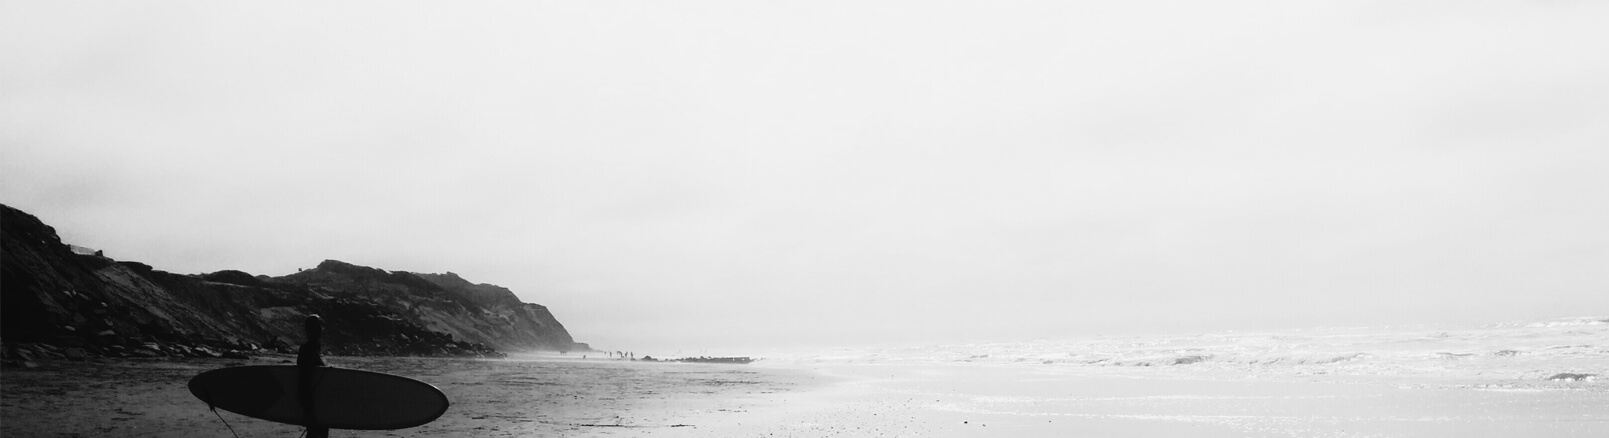
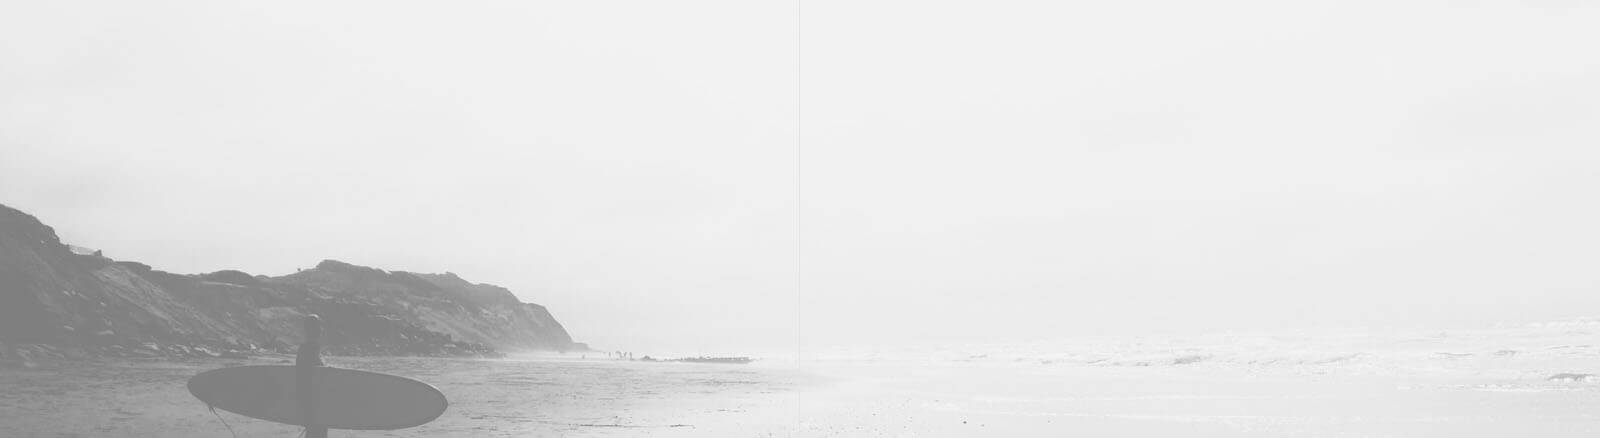
subscribe

Changed region(s): [[0.0, 0.4155, 0.5, 1.0], [0.9375, 0.8311, 1.0, 0.8904], [0.7188, 0.8014, 0.75, 0.8311]]

diff --git a/style.less b/style.less
@@ -449,7 +449,7 @@ body {
     position: relative;
 
     img {
-        height: 100%;
+        //        height: 100%;
     }
 
     &__text {
@@ -481,10 +481,6 @@ body {
 .offerDescription {
     width: 100%;
     background-color: #222224;
-    display: -webkit-flex;
-    display: -moz-flex;
-    display: -ms-flex;
-    display: -o-flex;
     display: flex;
     flex-direction: column;
 
@@ -495,7 +491,6 @@ body {
 
         &__img {
             align-self: flex-start;
-
             margin-right: 33px;
         }
 
@@ -527,7 +522,44 @@ body {
 .subscribe {
     background-color: #eeeeee;
     background-image: url(img/subscribebg.jpg);
-    filter: contrast(60%);
     height: 438px;
     margin-bottom: 50px;
+}
+
+
+
+.leftblock {
+    display: flex;
+
+    &__imgface {
+        margin-right: 28px;
+        align-self: flex-start
+    }
+
+    &__text {
+        padding-top: 12px;
+        letter-spacing: 0.4px;
+        font-size: 16px;
+        color: #222224;
+        line-height: 26px;
+
+
+        &-opinion {
+            width: 386px;
+            font-size: 16px;
+            font-style: italic;
+        }
+        &-name {
+            color: #f16d7f;
+            font-weight: 700;
+        }
+        &-place {
+            font-family: "Lato Light";
+            font-size: 12px;
+            font-weight: 300;
+            letter-spacing: 0.3px;
+            line-height: 14px;
+        }
+
+    }
 }

diff --git a/index.html b/index.html
@@ -217,18 +217,20 @@
     <div class="subscribe">
         <div class="container">
             <div class="leftblock">
-                <img src="img/suscriberface.png" alt="face">
-                <div class="leftblock__text" >
+                <img class="leftblock__imgface" src="img/suscriberface.png" alt="face">
+                <div class="leftblock__text">
+                    <p class="leftblock__text-opinion" >“Vestibulum quis porttitor dui! Quisque viverra nunc mi, a pulvinar purus condimentum a. Aliquam condimentum mattis neque sed pretium”</p>
+                    <p class="leftblock__text-name" >Bin Burhan</p>
+                    <p class="leftblock__text-place" >Dhaka, Bd</p>
                     <div class="sliders">
-                        <div class="slider1"></div>
-                        <div class="slider2"></div>
-                        <div class="slider3"></div>
+                        <div class="slider-nonactive"></div>
+                        <div class="slider-active"></div>
                     </div>
                 </div>
             </div>
-            
+
             <div class="rightblock">
-                
+
             </div>
         </div>
     </div>

diff --git a/style.css b/style.css
@@ -369,9 +369,6 @@ body {
 .offerdiscount {
   position: relative;
 }
-.offerdiscount img {
-  height: 100%;
-}
 .offerdiscount__text {
   position: absolute;
   top: 146px;
@@ -396,10 +393,6 @@ body {
 .offerDescription {
   width: 100%;
   background-color: #222224;
-  display: -webkit-flex;
-  display: -moz-flex;
-  display: -ms-flex;
-  display: -o-flex;
   display: flex;
   flex-direction: column;
 }
@@ -435,7 +428,36 @@ body {
 .subscribe {
   background-color: #eeeeee;
   background-image: url(img/subscribebg.jpg);
-  filter: contrast(60%);
   height: 438px;
   margin-bottom: 50px;
+}
+.leftblock {
+  display: flex;
+}
+.leftblock__imgface {
+  margin-right: 28px;
+  align-self: flex-start;
+}
+.leftblock__text {
+  padding-top: 12px;
+  letter-spacing: 0.4px;
+  font-size: 16px;
+  color: #222224;
+  line-height: 26px;
+}
+.leftblock__text-opinion {
+  width: 386px;
+  font-size: 16px;
+  font-style: italic;
+}
+.leftblock__text-name {
+  color: #f16d7f;
+  font-weight: 700;
+}
+.leftblock__text-place {
+  font-family: "Lato Light";
+  font-size: 12px;
+  font-weight: 300;
+  letter-spacing: 0.3px;
+  line-height: 14px;
 }
